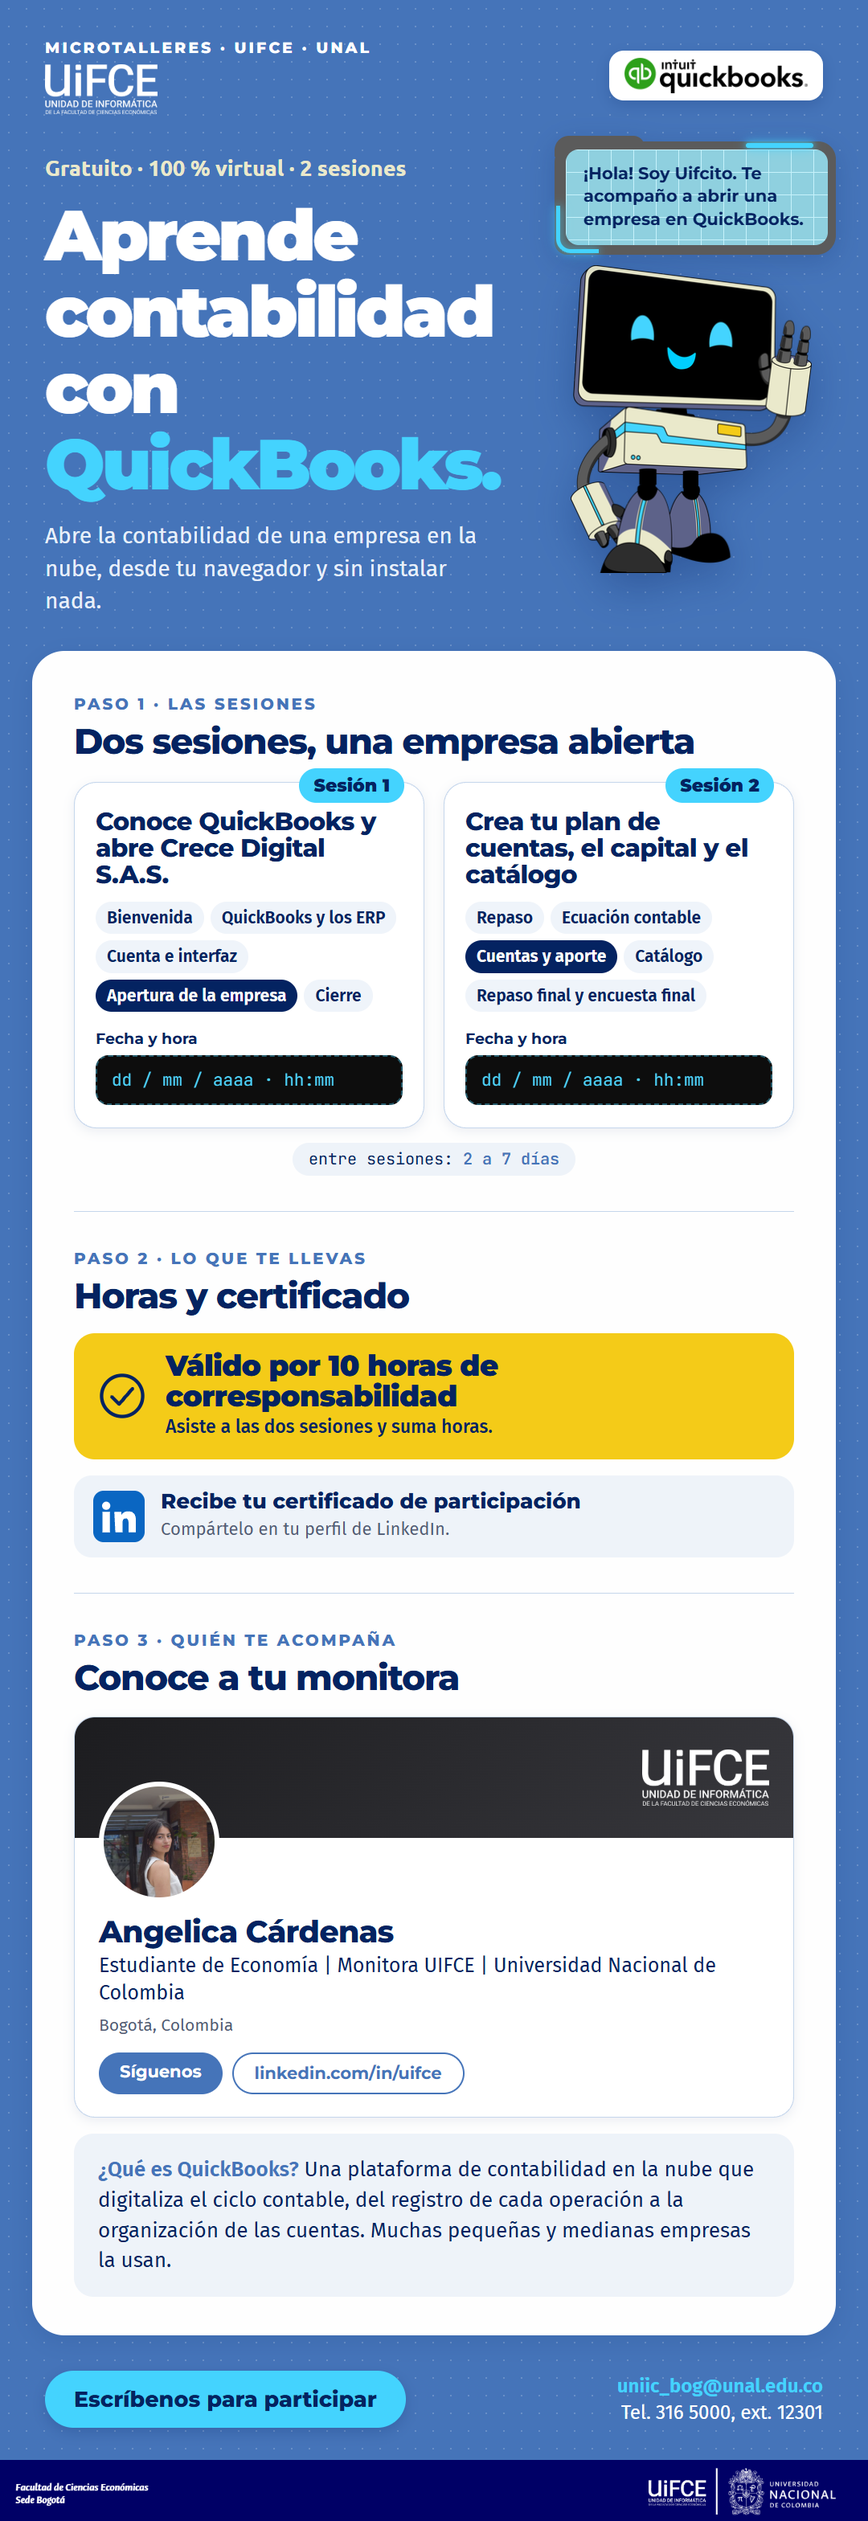
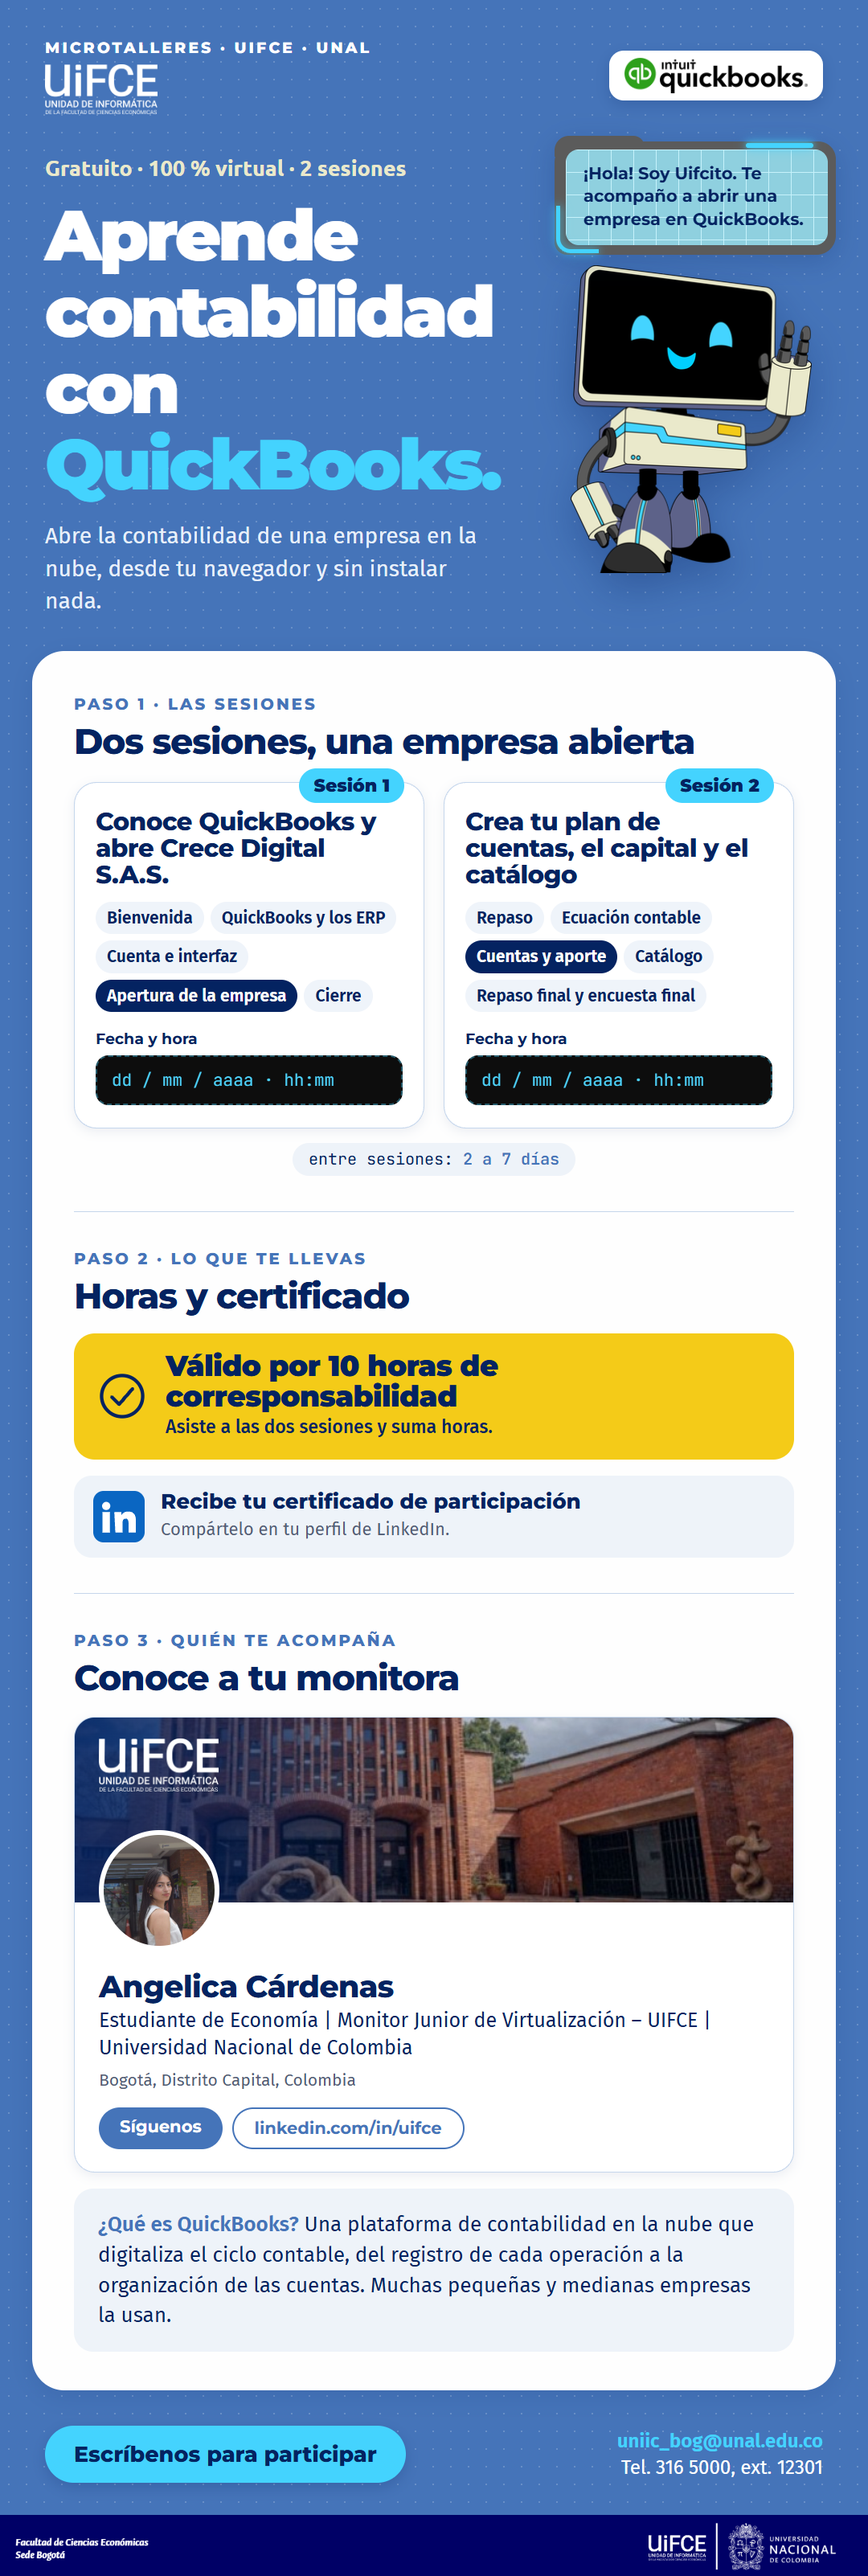
Propuesta 3: portada real del perfil de LinkedIn de la monitora

diff --git a/propuesta-3/index.html b/propuesta-3/index.html
@@ -69,10 +69,10 @@
 
   /* tarjeta estilo perfil de LinkedIn */
   .pf{margin-top:24px;border:1px solid var(--border);border-radius:26px;overflow:hidden;box-shadow:0 4px 14px #04236114;background:#fff}
-  .pf .cover{height:150px;background:linear-gradient(135deg,#1c1c1f,#38383d);position:relative}
-  .pf .cover img{position:absolute;right:30px;top:40px;height:70px}
-  .pf .cover img.av{height:150px;right:auto;position:absolute;left:30px;top:80px;width:150px;height:150px;border-radius:50%;object-fit:cover;object-position:60% 25%;border:6px solid #fff;background:#fff}
-  .pf .body{padding:96px 30px 28px}
+  .pf .cover{height:230px;background:linear-gradient(90deg,rgba(4,35,97,.75),rgba(4,35,97,0) 55%),url("assets/portada-uifce.jpg") center 35%/cover;position:relative}
+  .pf .cover img.lg{position:absolute;left:auto;right:auto;left:30px;top:26px;height:66px}
+  .pf .cover img.av{height:150px;right:auto;position:absolute;left:30px;top:140px;width:150px;height:150px;border-radius:50%;object-fit:cover;object-position:60% 25%;border:6px solid #fff;background:#fff}
+  .pf .body{padding:84px 30px 28px}
   .pf h3{font-weight:800;font-size:38px;letter-spacing:-.02em}
   .pf p{font-size:25px;line-height:1.35;margin-top:6px;color:var(--navy)}
   .pf .loc{font-size:21px;color:var(--text);margin-top:8px}
@@ -145,11 +145,11 @@
     <div class="eyebrow">Paso 3 · Quién te acompaña</div>
     <h2>Conoce a tu monitora</h2>
     <div class="pf">
-      <div class="cover"><img src="assets/logo-uifce-static-blanco.png" alt="UIFCE"><img class="av" src="assets/angelica-cardenas.jpg" alt="Angelica Cárdenas, monitora UIFCE" ></div>
+      <div class="cover"><img class="lg" src="assets/logo-uifce-static-blanco.png" alt="UIFCE"><img class="av" src="assets/angelica-cardenas.jpg" alt="Angelica Cárdenas, monitora UIFCE" ></div>
       <div class="body">
         <h3>Angelica Cárdenas</h3>
-        <p>Estudiante de Economía | Monitora UIFCE | Universidad Nacional de Colombia</p>
-        <div class="loc">Bogotá, Colombia</div>
+        <p>Estudiante de Economía | Monitor Junior de Virtualización – UIFCE | Universidad Nacional de Colombia</p>
+        <div class="loc">Bogotá, Distrito Capital, Colombia</div>
         <div class="btns"><span class="b1">Síguenos</span><span class="b2">linkedin.com/in/uifce</span></div>
       </div>
     </div>

diff --git a/index.html b/index.html
@@ -52,7 +52,7 @@
   </section>
   <section class="panel" id="p3" role="tabpanel" aria-labelledby="tab-3" hidden>
     <div class="actions"><a href="propuesta-3/infografia.png" download>Descargar PNG ↓</a></div>
-    <div class="frame" id="frame3"><iframe id="if3" src="propuesta-3/index.html" title="Propuesta 3" scrolling="no" width="1080" height="3137"></iframe></div>
+    <div class="frame" id="frame3"><iframe id="if3" src="propuesta-3/index.html" title="Propuesta 3" scrolling="no" width="1080" height="3205"></iframe></div>
   </section>
   <section class="panel" id="p4" role="tabpanel" aria-labelledby="tab-4" hidden>
     <div class="actions"><a href="propuesta-4/infografia.png" download>Descargar PNG ↓</a></div>
@@ -61,7 +61,7 @@
 </main>
 <script>
   var tabs=document.querySelectorAll('nav button'), panels={1:document.getElementById('p1'),2:document.getElementById('p2'),3:document.getElementById('p3'),4:document.getElementById('p4')};
-  var SIZES={1:[1080,3399],2:[1920,1080],3:[1080,3137],4:[1080,1904]};
+  var SIZES={1:[1080,3399],2:[1920,1080],3:[1080,3205],4:[1080,1904]};
   function fit(){
     var cw=document.documentElement.clientWidth;
     [1,2,3,4].forEach(function(n){
